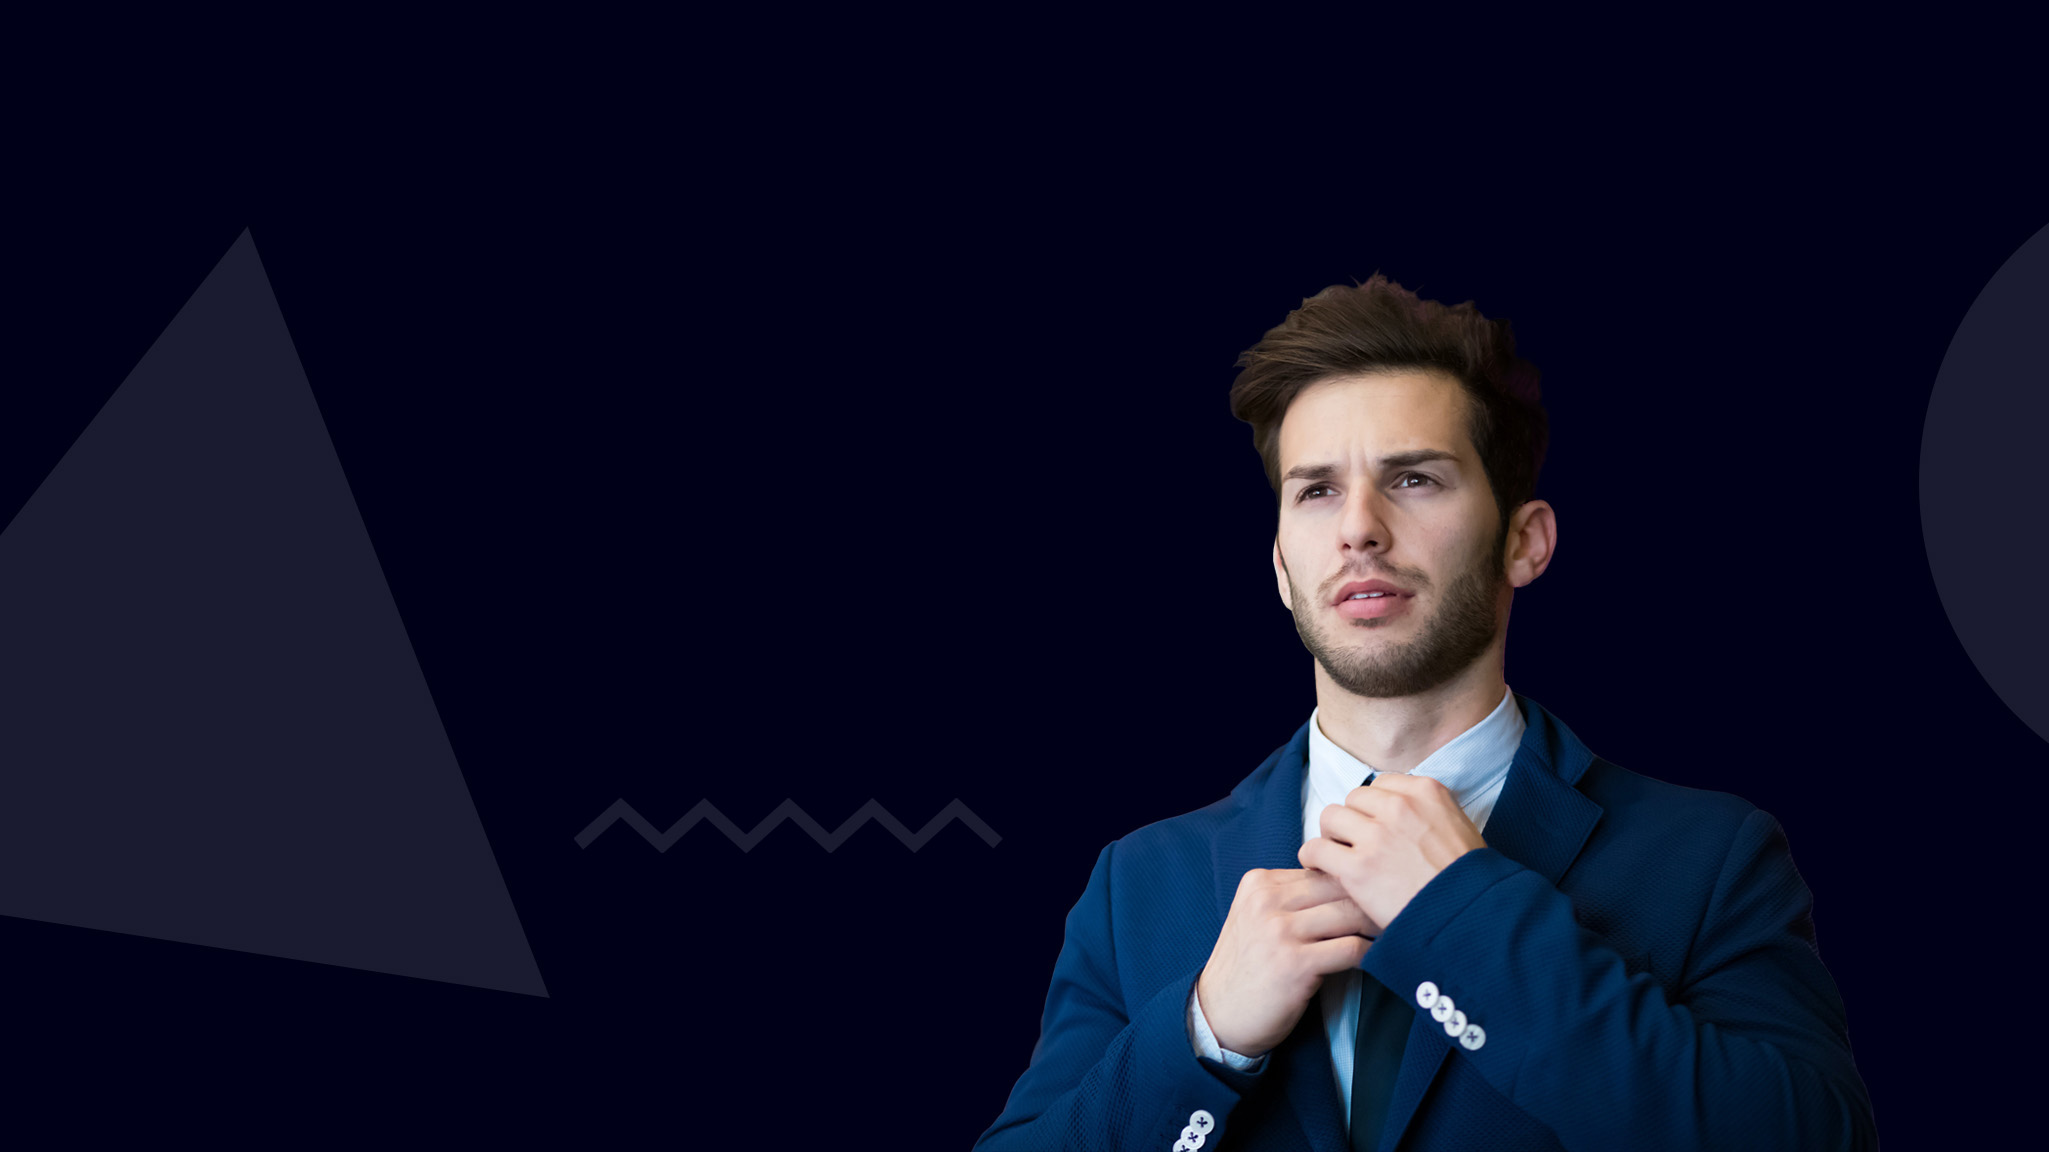
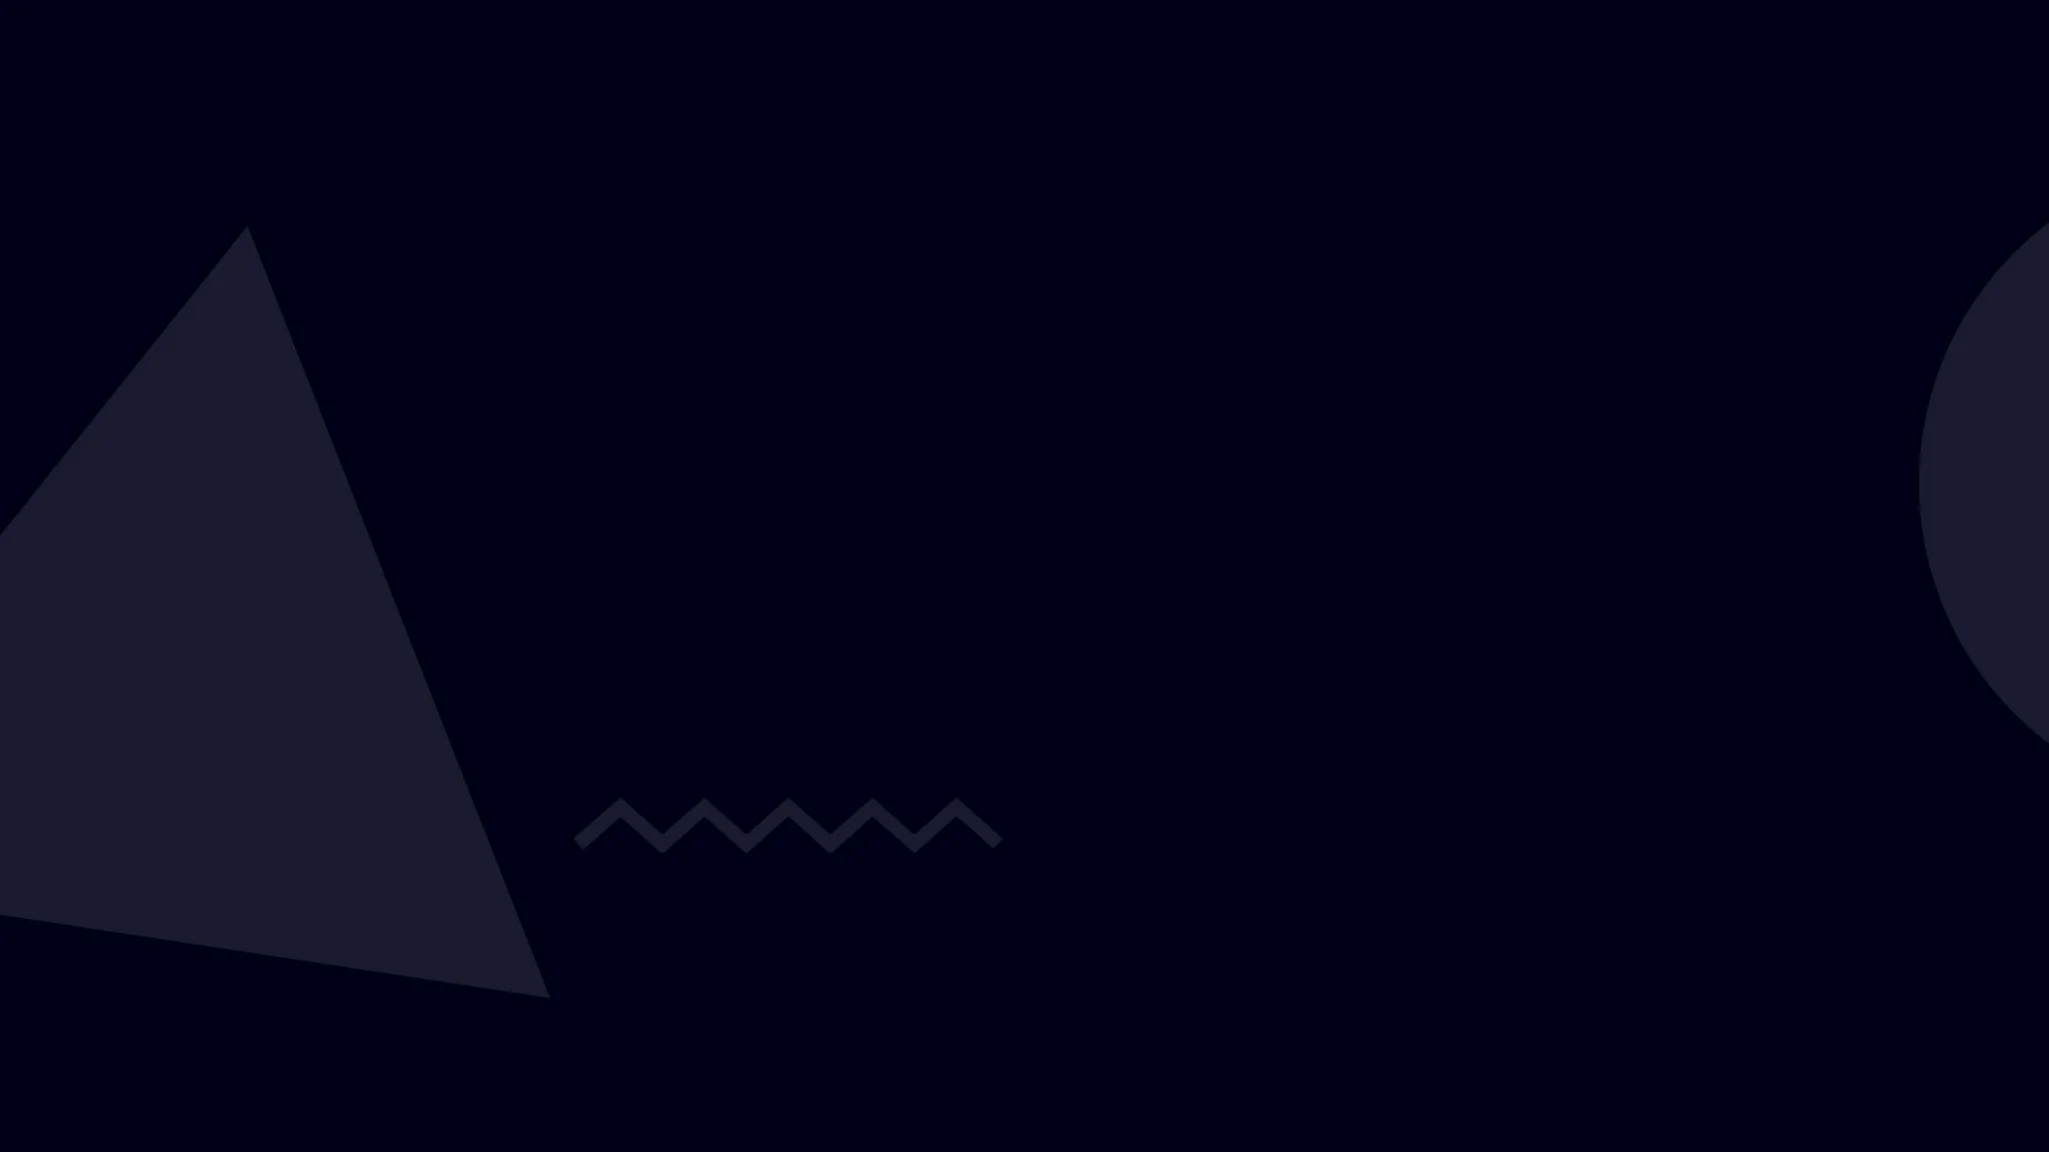
añadiendo fondo - pendiente foto

Changed region(s): [[0.4685, 0.2188, 0.8746, 1.0]]

diff --git a/index.html b/index.html
@@ -36,8 +36,8 @@
             <div class="media-icons">
                 <a href="https://www.linkedin.com/in/huver-fernando-chimen-s%C3%A1nchez-043644384/" data-aos="fade-in" data-aos-duration="1000" data-aos-delay="1200"><i class="fab fa-linkedin-in"></i></a>
                 <a href="https://github.com/HuverSanchez" data-aos="fade-in" data-aos-duration="1000" data-aos-delay="1300"><i class="fab fa-github"></i></a>
-                <a href="#" data-aos="fade-in" data-aos-duration="1000" data-aos-delay="1400"><i class="fab fa-x"></i></a>
-                <a href="#" data-aos="fade-in" data-aos-duration="1000" data-aos-delay="1500"><i class="fab fa-instagram"></i></a>
+                <a href="#" data-aos="fade-in" data-aos-duration="1000" data-aos-delay="1400"><i class="fab fa-twitter"></i></a>
+                <a href="https://www.instagram.com/junior.s_c/" data-aos="fade-in" data-aos-duration="1000" data-aos-delay="1500"><i class="fab fa-instagram"></i></a>
             </div>
         </div>
     </section>
